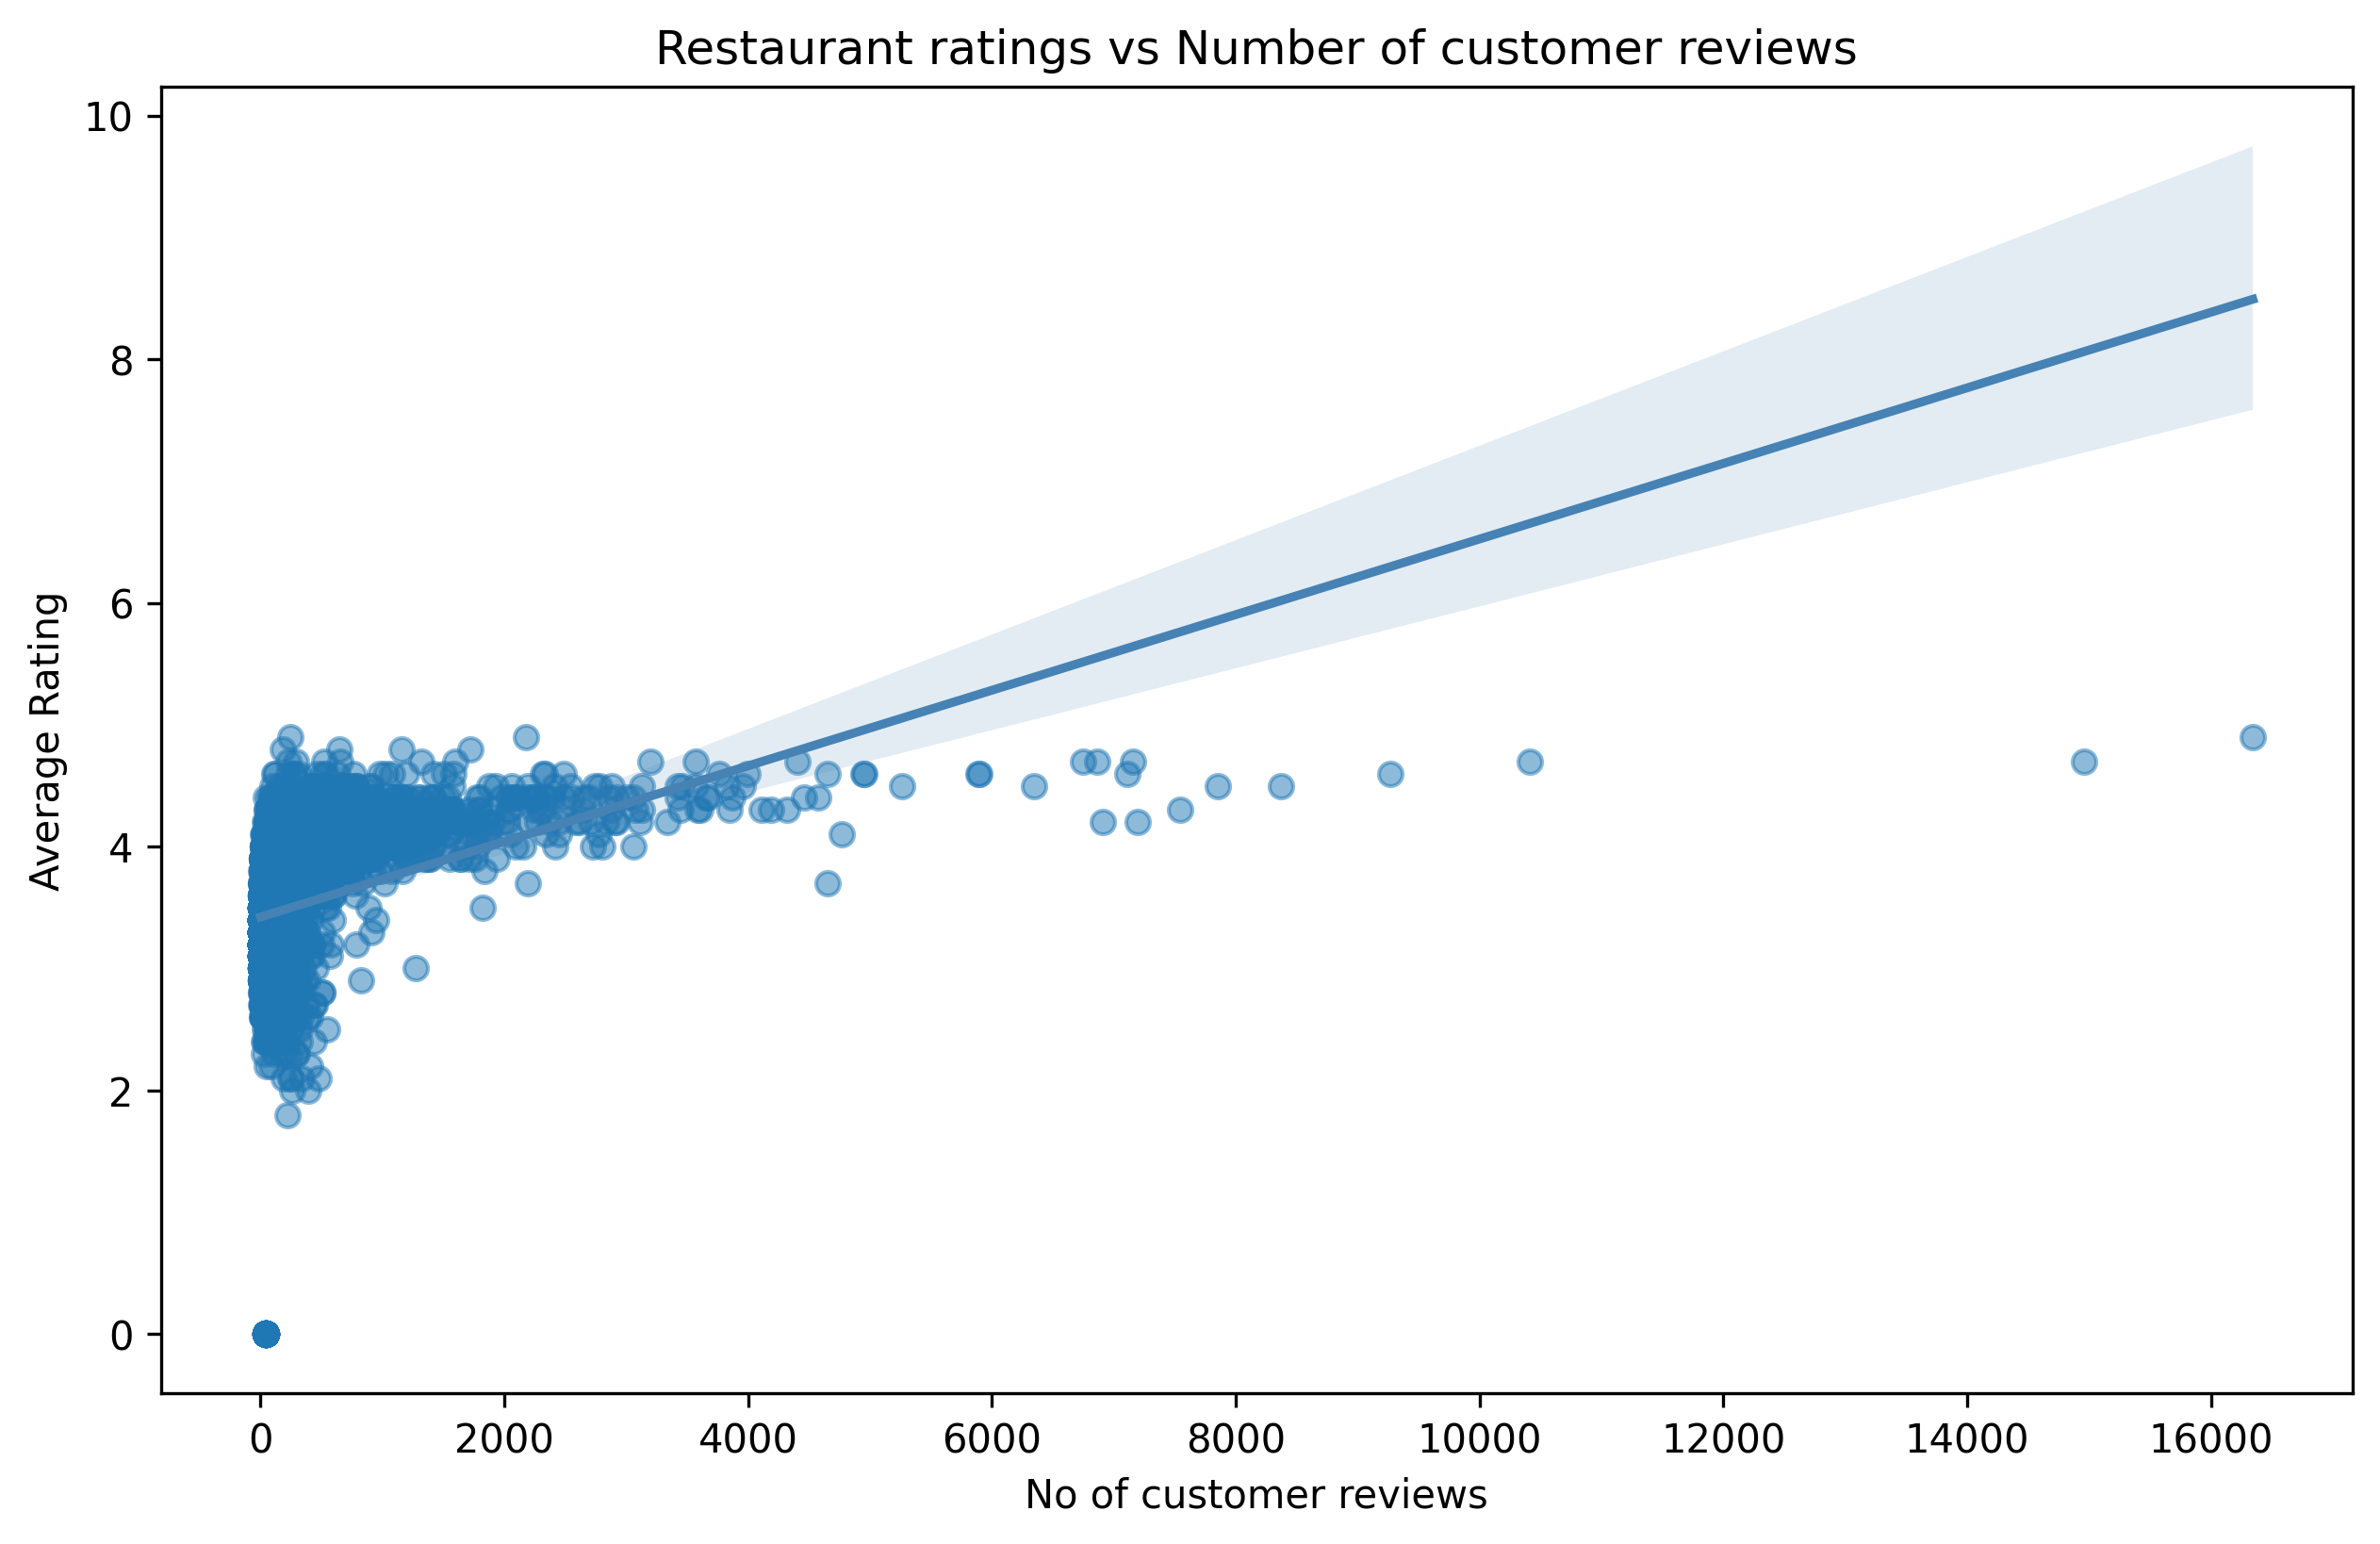
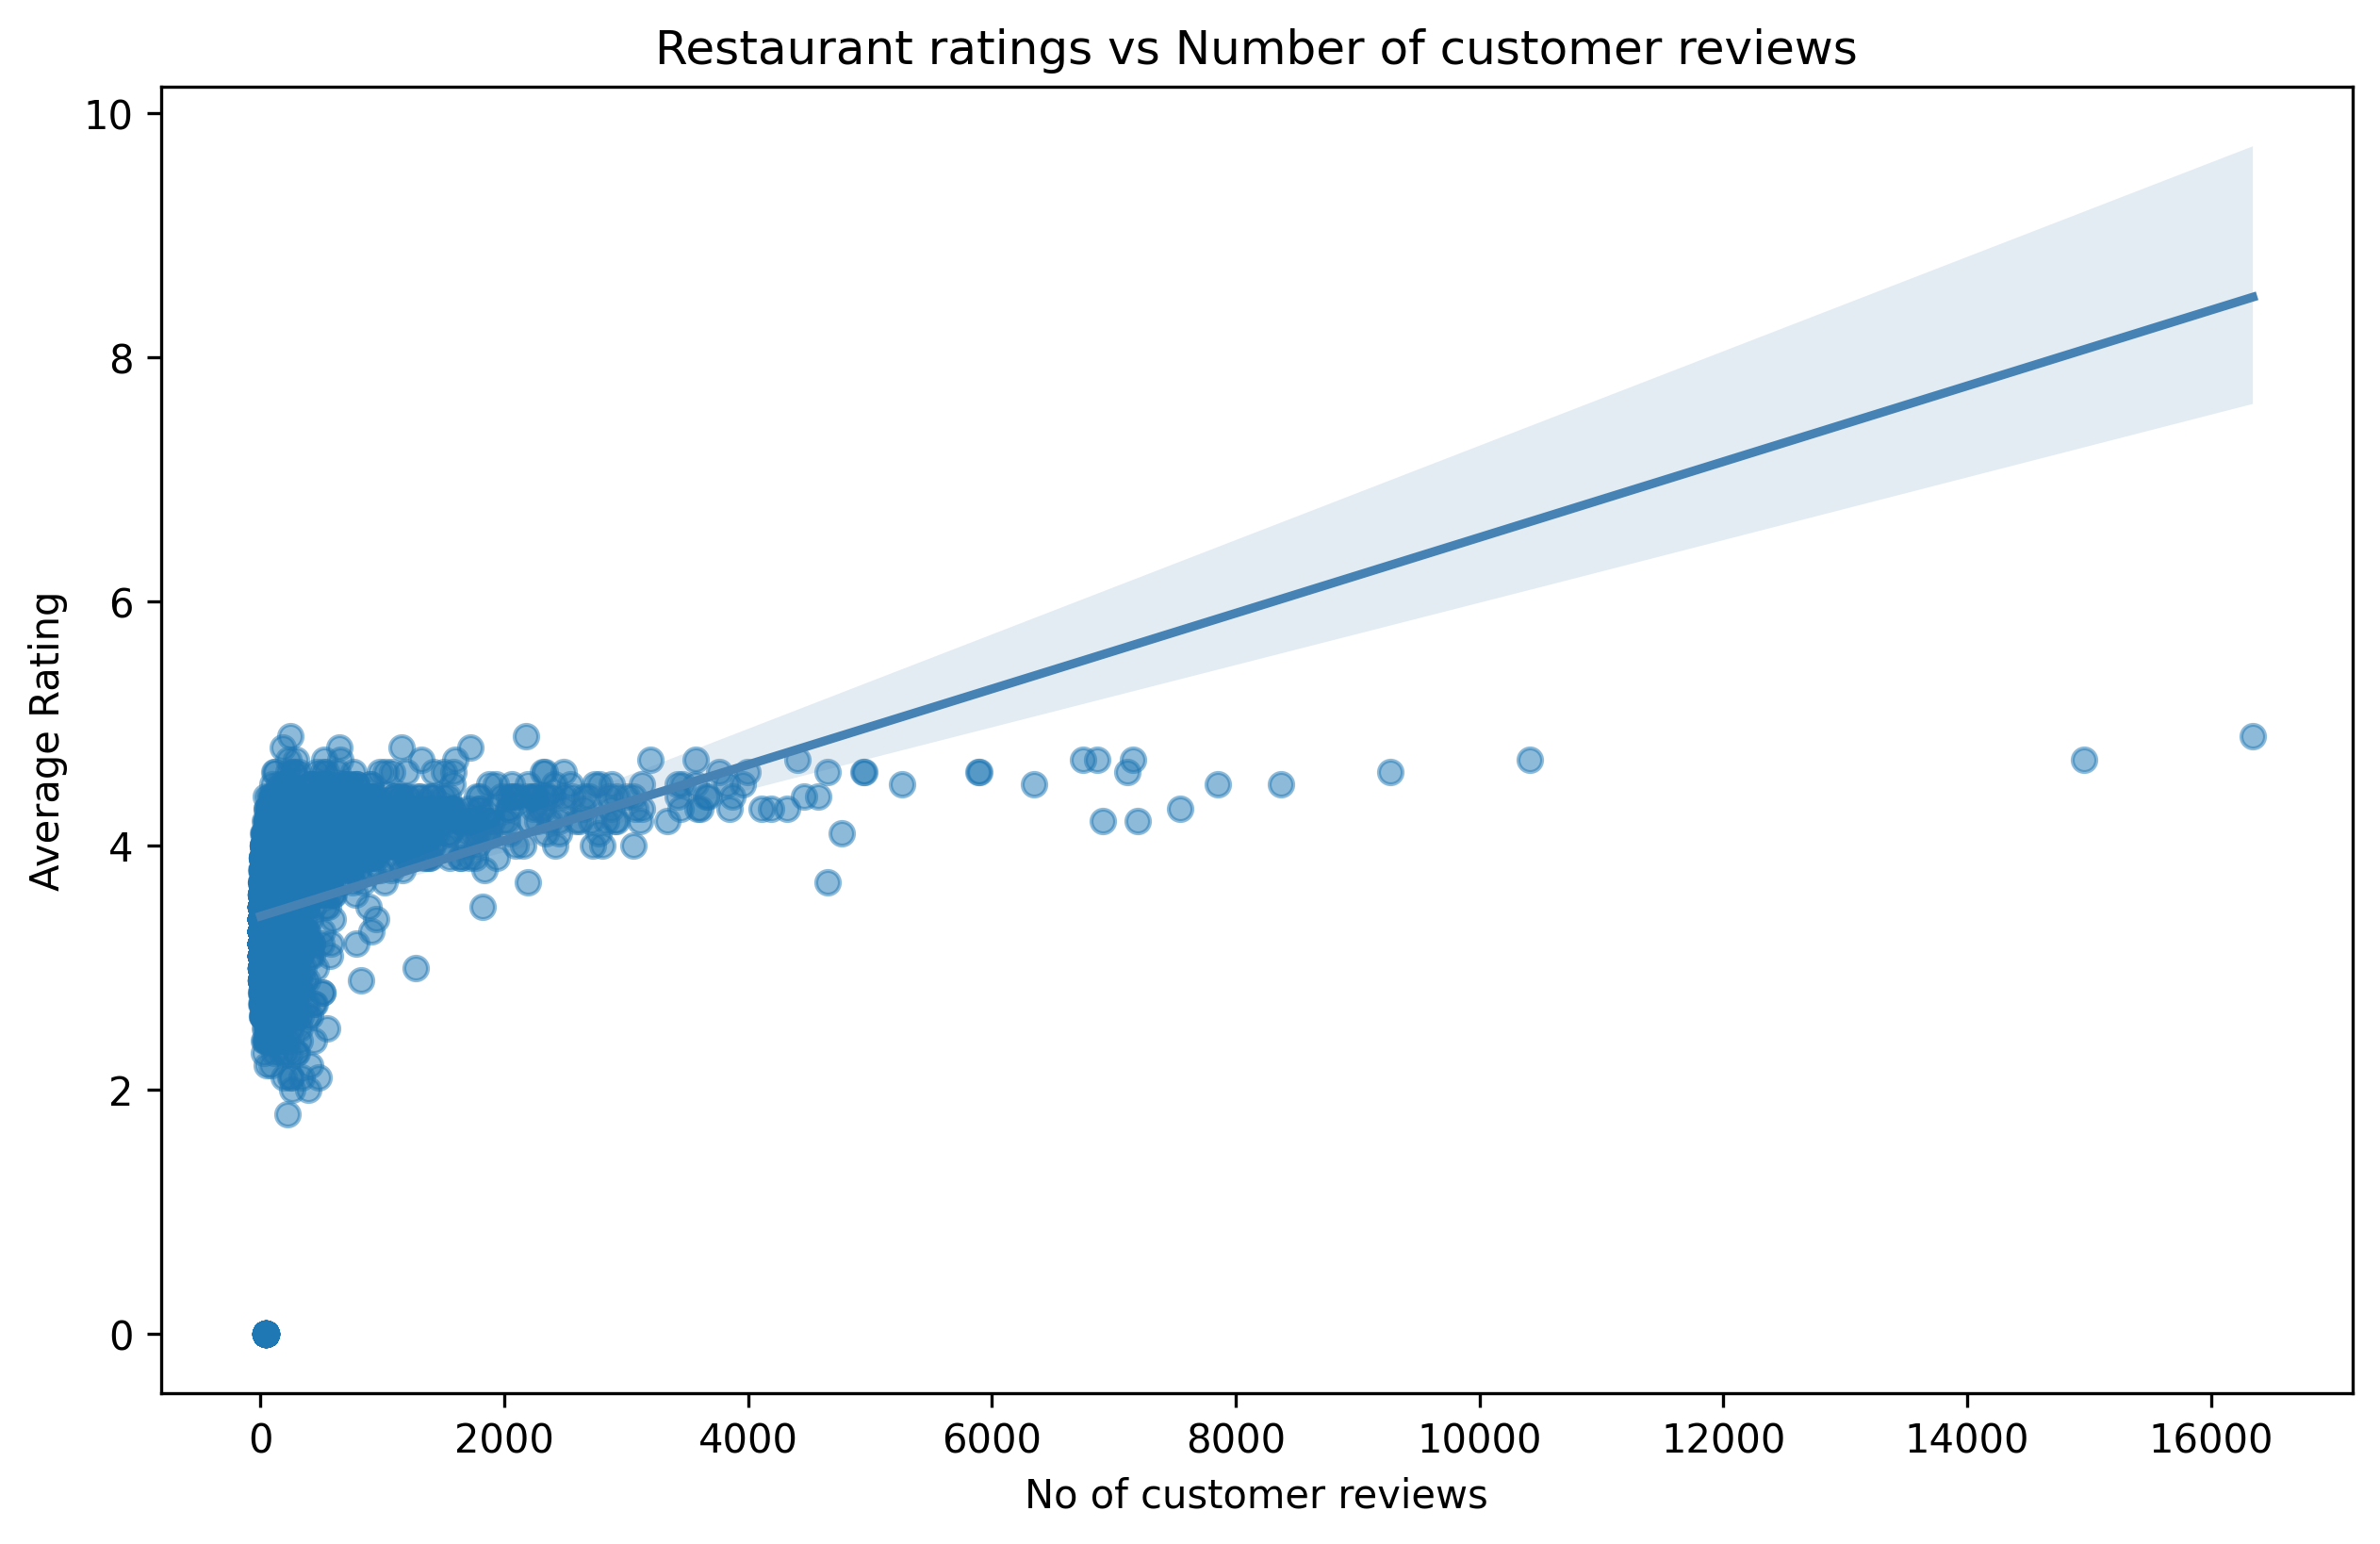
Add Zomato Restaurant Business Dashboard

diff --git a/app.py b/app.py
@@ -1,0 +1,205 @@
+import streamlit as st
+import pandas as pd
+import plotly.express as px
+
+
+st.set_page_config(
+    page_title="Zomato Business Dashboard",
+    page_icon="🍽️",
+    layout='wide'
+)
+
+st.title('Zomato Restaurant Business Dashboard')
+
+st.markdown('' \
+'Analyze restaurants using innteractive filters and business insights')
+
+df = pd.read_csv("Zomato.csv")
+filtered_df = df
+
+
+st.sidebar.header('Dashboard filters')
+
+areas = ["All Areas"] + sorted(df['area'].dropna().unique()) #we took unique areas and sorted them in alphabetical order
+selected_area = st.sidebar.selectbox("Choose area ", areas)
+
+
+if selected_area == "All Areas":
+    filtered_df = df
+else:
+    filtered_df = df[df['area'] == selected_area]  
+
+
+restaurants  = ["All Restaurants"] + sorted(df['restaurant type'].dropna().unique())
+selected_restaurant = st.sidebar.selectbox("Choose Restaurant",restaurants)
+
+
+if selected_restaurant != "All Restaurants":
+    filtered_df = filtered_df[filtered_df['restaurant type'] == selected_restaurant]
+
+minimum_rating = st.sidebar.slider(
+    "Minimum Rating",
+    min_value = 0.0,
+    max_value= 5.9,
+    value = 0.9,
+    step = 0.1
+    ) 
+
+# st.write(df['rate (out of 5)'].dtype)
+filtered_df = filtered_df[
+    filtered_df['rate (out of 5)'] >= minimum_rating
+]
+
+
+st.write(minimum_rating)
+search = st.text_input("Search Restaurant")
+
+
+if search:
+    filtered_df = filtered_df[filtered_df['restaurant name'].str.contains(
+        search ,
+        case = False,
+        na=False
+    )]
+
+if filtered_df.empty:
+    st.warning('No restaurants found for selected filter')
+    st.stop()
+
+
+total_restaurants = len(filtered_df)
+avg_rating = round(filtered_df['rate (out of 5)'].mean(),2)
+total_areas = filtered_df['area'].nunique()
+total_cuisines = filtered_df['cuisines type'].nunique() #unique cuisines instead of  number it returns
+
+
+col1 , col2 , col3 , col4 = st.columns(4)
+with col1:
+    st.metric("Restaurants  " ,total_restaurants)
+
+with col2:
+    st.metric("Avg rating  " , avg_rating)
+
+
+with col3:
+    st.metric("Areas " ,total_areas)
+
+
+with col4:
+    st.metric("Cuisines" , total_cuisines)
+
+
+
+st.subheader('Business Insights')
+restaurant_counts = filtered_df['restaurant type'].value_counts()
+restaurant_counts = restaurant_counts.reset_index()
+
+fig = px.bar(restaurant_counts , 
+             x = 'restaurant type',
+             y = 'count',
+             title='Restaurant Type Distribution',
+             color='restaurant type',
+             color_discrete_sequence=px.colors.qualitative.Set2)
+
+fig.update_layout(
+    xaxis_title = 'Restaurant Type',
+    yaxis_title = "Number of Restaurants"
+)
+
+area_counts = filtered_df['area'].value_counts()
+area_counts = area_counts.reset_index()
+
+area_figure = px.bar(area_counts,
+                 x = 'area',
+                 y = 'count',
+                 title = 'Area Distribution',
+                 color_discrete_sequence=px.colors.qualitative.Bold)
+
+
+
+chart1 , chart2 = st.columns(2)
+
+with chart1:
+    st.plotly_chart(fig)
+
+with chart2:
+    st.plotly_chart(area_figure)
+
+#avg rating byt cuiisne
+cuisine_counts = filtered_df.groupby('cuisines type')['rate (out of 5)'].mean().sort_values(ascending=False).head(10)
+cuisine_counts = cuisine_counts.reset_index()
+
+cuisine_figure = px.bar(cuisine_counts,
+                        x = 'cuisines type',
+                        y='rate (out of 5)',
+                        title = 'Top 10 Cuisine',
+                        color='rate (out of 5)',
+                        color_continuous_scale='Viridis')
+
+
+
+#what percentage of restaurants belong to each restaurant type
+restaurant_pie = px.pie(restaurant_counts ,
+                        names='restaurant type',
+                        values='count',
+                        title='Restaurant Type Distribution',
+                        color_discrete_sequence=px.colors.qualitative.Pastel)
+
+chart3 , chart4 = st.columns(2)
+with chart3:
+    st.plotly_chart(cuisine_figure)
+
+with chart4:
+    st.plotly_chart(restaurant_pie)
+
+
+#distribution of ratings
+rating_fig = px.histogram(
+    filtered_df,
+    x = 'rate (out of 5)',
+    nbins= 10,
+    title='Restaurant Rating Distribution',
+    template='plotly_white'
+)
+
+
+
+#Rating vs Cost
+scatter_fig = px.scatter(filtered_df,
+                         x='avg cost (two people)',
+                         y = 'rate (out of 5)',
+                         hover_name='restaurant name',
+                         color = 'restaurant type',
+                         title='Rating vs Cost',
+                         template='plotly_white')
+
+
+chart5 , chart6 = st.columns(2)
+
+with chart5:
+    st.plotly_chart(rating_fig)
+
+with chart6:
+    st.plotly_chart(scatter_fig)
+
+csv = filtered_df.to_csv(index = False).encode('utf-8')
+
+st.download_button(
+    'Download Filtered Data',
+    data = csv,
+    file_name='filtered_restaurants.csv',
+    mime='text/csv'
+)
+
+st.subheader('Restaurant details')
+
+st.dataframe(filtered_df[[
+    'restaurant name',
+    'restaurant type',
+    'rate (out of 5)',
+    'avg cost (two people)',
+    'area'
+]])
+
+st.markdown('-----')
+st.caption('Created by Vedika Tamshetti')

diff --git a/zomato.py b/zomato.py
@@ -7,6 +7,7 @@ import seaborn as sns
 
 
 df = pd.read_csv('Zomato.csv')
+
 print(df.columns)
 print(df.info())
 print(df.describe())